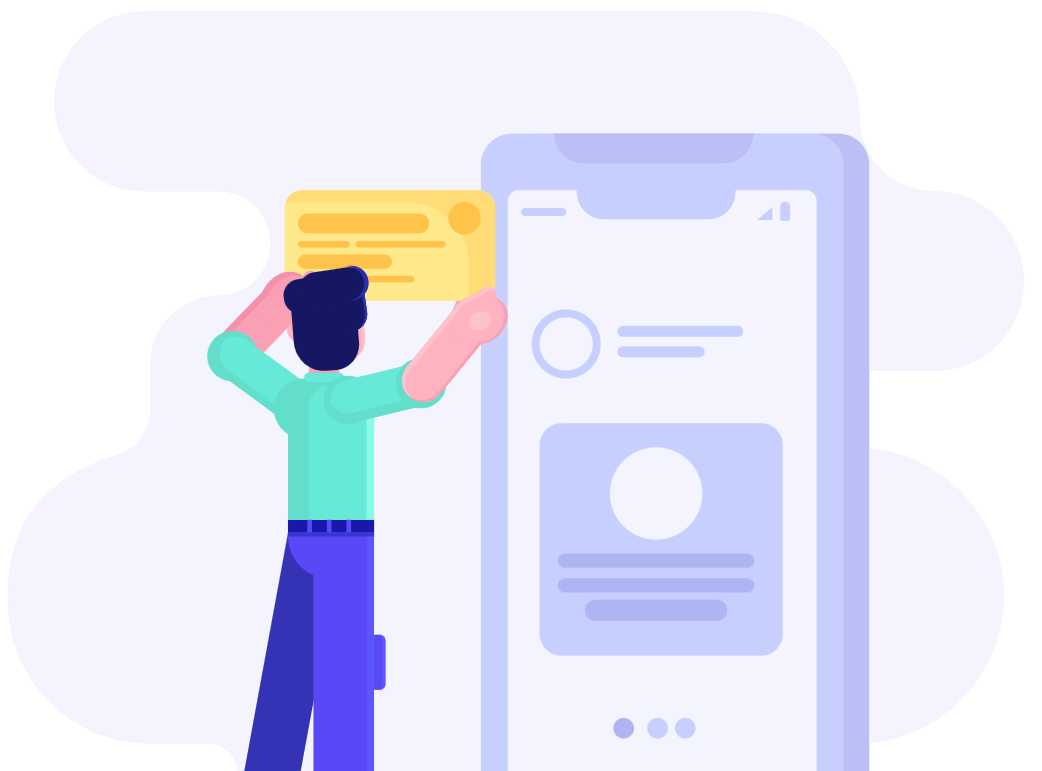
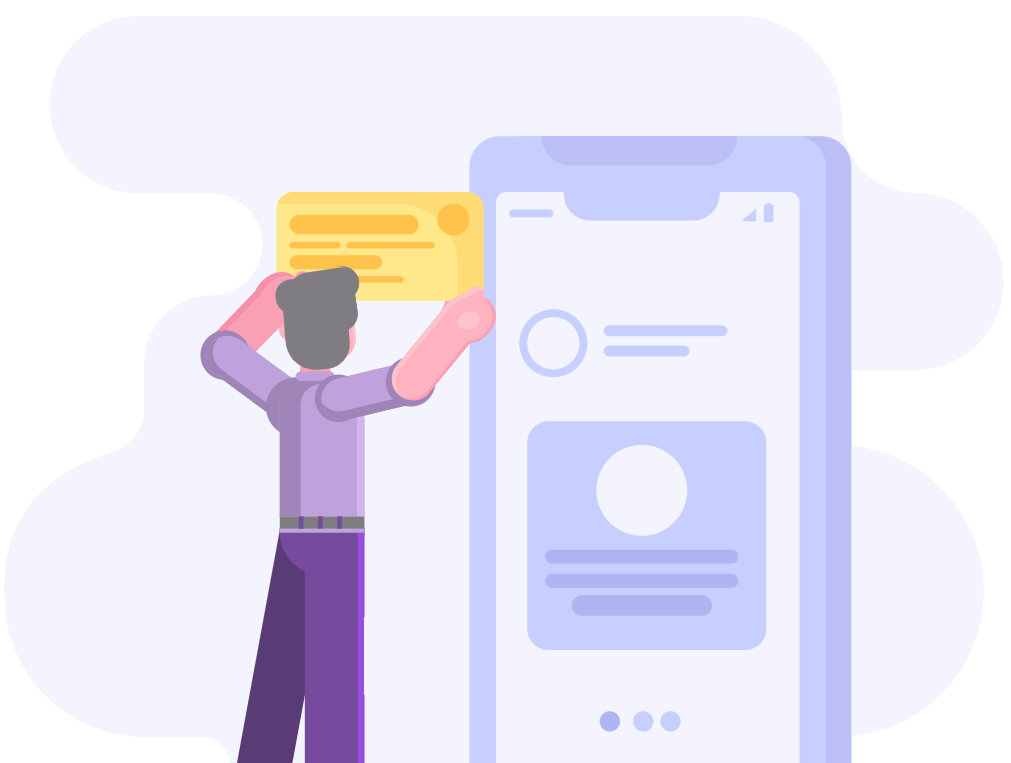
메인 일러스트 1개 및 태그블록 새깔 변경

diff --git a/project/src/main/webapp/static/js/post-create.js b/project/src/main/webapp/static/js/post-create.js
@@ -10,6 +10,15 @@
 	 
 	 const inputHash = document.querySelector('input#inputHashTag');
 	
+	
+	//---------------------------------------------------------------------------
+
+	
+	//---------------------------------------------------------------------------	
+	
+	
+	
+	
 	//엔터 및 스페이스가 눌렸을 때 해시태그를 html 출력
 	 inputHash.addEventListener('keydown', function(e){
 		 //엔터키가 눌렸을 때
@@ -103,7 +112,7 @@ if (contentValue === '' || contentValue.length < 5) {
 	 	 
 	 	 //해시태그 <ul>에 출력함
 	 	  hashtagList.innerHTML += 
-	 	  `<span id=${tag} class="badge d-flex p-2 align-items-center text-primary-emphasis bg-light-subtle rounded-pill border  border-dark-subtle">
+	 	  `<span id=${tag} class="badge d-flex p-2 align-items-center text-primary-emphasis rounded-pill" style="background-color : #F3F1F5">
 		    <span class="px-1 tagValue">${tag}</span>
 		    <span class="btn-close btnDel"  data-id="${tag}"></span>
             <input class="d-none" name="hashTag" value="${tag}" />

diff --git a/project/src/main/webapp/static/js/post-modify.js b/project/src/main/webapp/static/js/post-modify.js
@@ -97,7 +97,7 @@
 	 	 
 	 	 //해시태그 <ul>에 출력함
 	 	  hashtagList.innerHTML += 
-	 	  `<span id=${tag} class="badge d-flex p-2 align-items-center text-primary-emphasis bg-light-subtle rounded-pill border  border-dark-subtle">
+	 	  `<span id=${tag} class="badge d-flex p-2 align-items-center text-primary-emphasis rounded-pill" style="background-color : #F3F1F5">
 		    <span class="px-1 tagValue">${tag}</span>
 		    <span class="btn-close btnDel"  data-id="${tag}"></span>
             <input class="d-none" name="hashTag" value="${tag}" />
